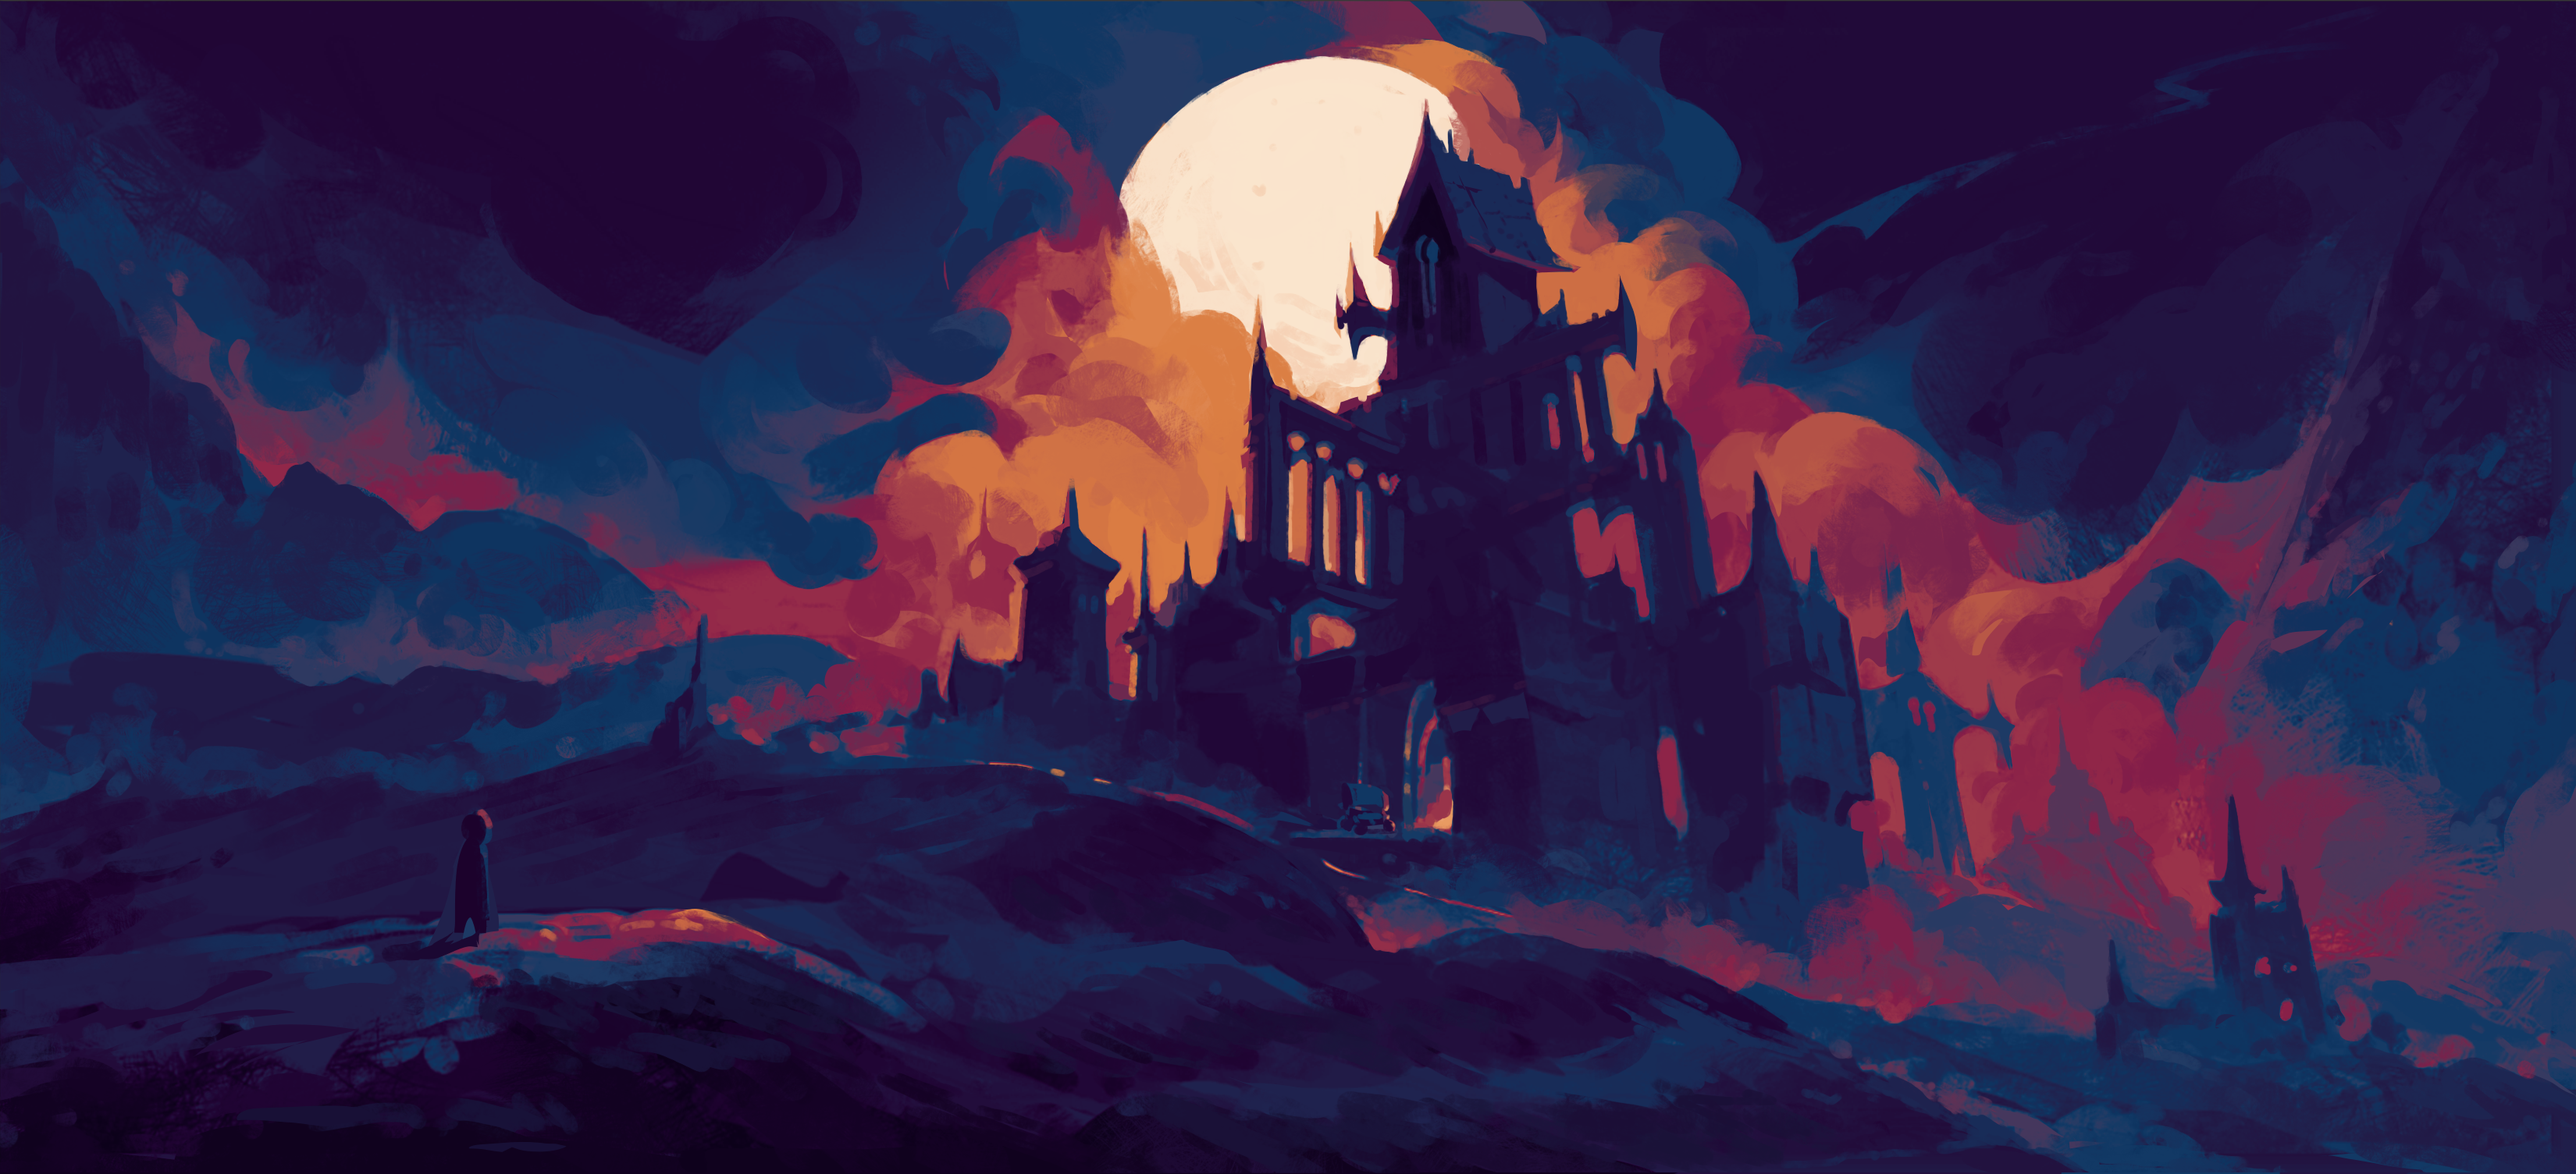
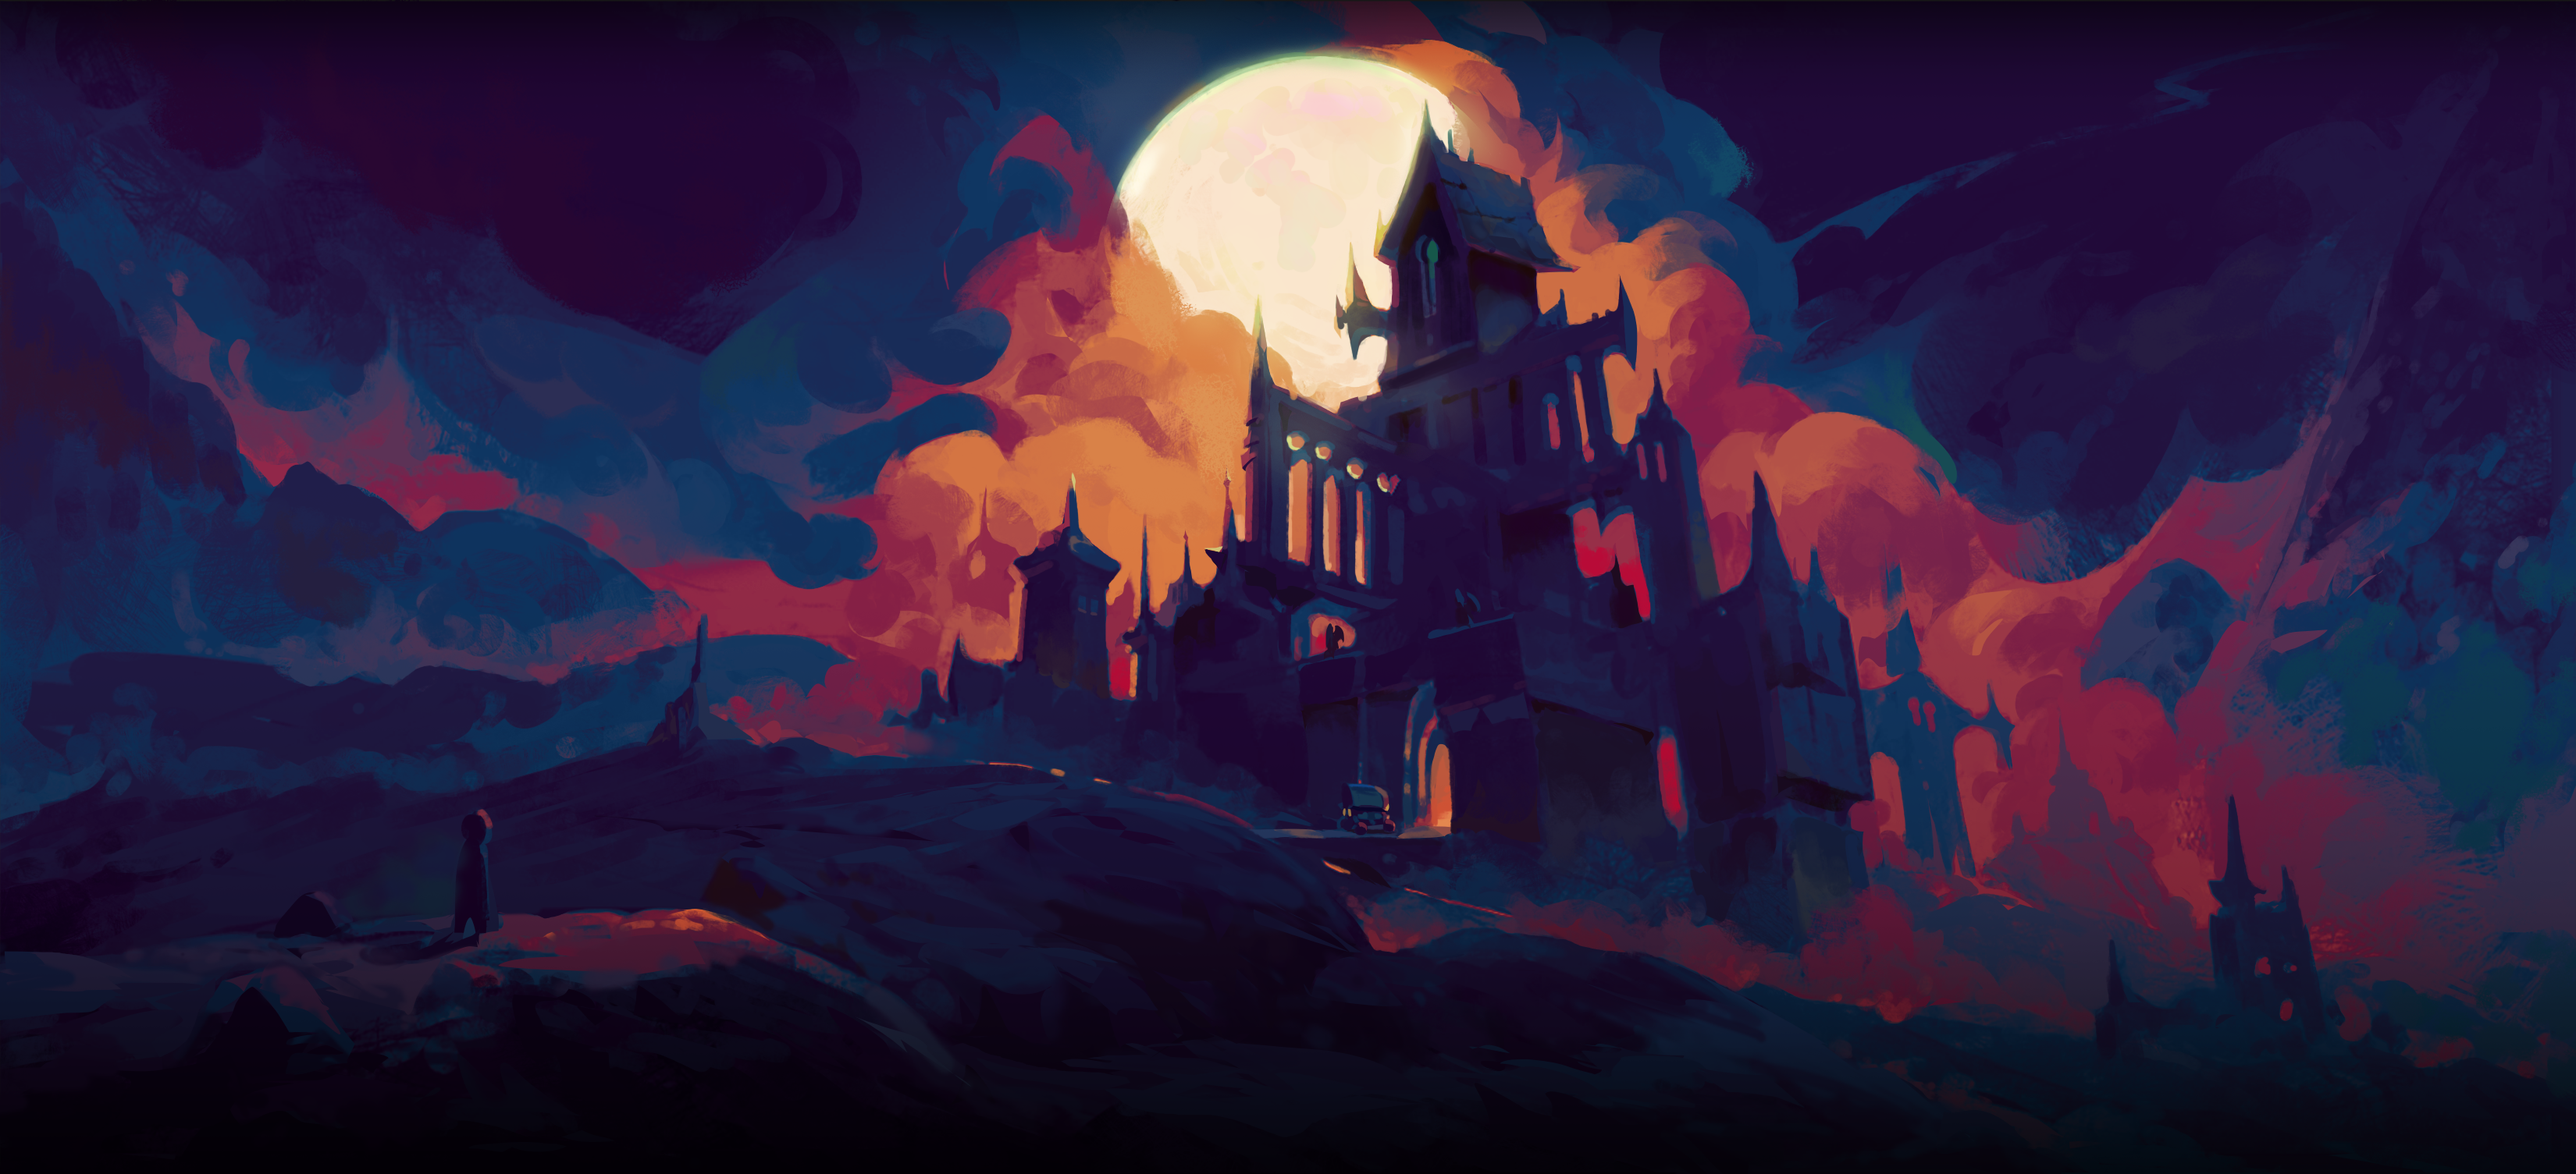
updated look

diff --git a/web/src/pages/Home/components/StudioSection.tsx b/web/src/pages/Home/components/StudioSection.tsx
@@ -1,39 +1,88 @@
 import studio_key_art from "../../../assets/media/studio_key_art.png"
 import TeamData from "../../../constants/TeamData.ts";
+import StudioBackground from "../../../assets/media/img_bg_studio.png"
+import StudioContentBorderLeft from "../../../assets/media/studio_content_left.png"
+import StudioContentBorderRight from "../../../assets/media/studio_content_right.png"
+import {useEffect, useRef, useState} from "react";
+
 export default function StudioSection() {
-    const highlightText  = "text-[#EB4335]";
+    const highlightText  = "text-[#1397a6]";
     const textColor = "";
     const headerColor = "";
     const memberCount = TeamData.map((member)=>member.status === "ACTIVE" && member.member_type !+ "ADVISOR").length;
+
+
+    const [visible, setVisible] = useState(false);
+    const sectionRef = useRef(null);
+
+    useEffect(() => {
+        const observer = new IntersectionObserver(
+            ([entry]) => {
+                setVisible(entry.isIntersecting);
+            },
+            { threshold: 0.1 }
+        );
+
+        if (sectionRef.current) {
+            observer.observe(sectionRef.current);
+        }
+
+        return () => observer.disconnect();
+    }, []);
+
+
+
     return (
-        <section className="mb-10 md:mb-0">
-            <div className="h-200 w-screen flex flex-col items-center mx-auto ">
-                <div className="flex justify-center">
-                <img src={studio_key_art} alt="Sketch of Character Lineup" className="inline-flex justify-center mt-20 items-center h-50"/>
-                {/*<span className="inline-flex justify-center items-center size-50 border border-2 border-line-100 mt-20 text-foreground">*/}
-                {/*    */}
-                {/*</span>*/}
+        <section ref={sectionRef} className={` md:bg-cover transition-opacity duration-500 ${
+            visible ? "opacity-100" : "opacity-0"
+        }`} style={{
+            backgroundImage: `url(${StudioBackground})`
+        }}>
+
+            {/*<div className="absolute inset-0 bg-gradient-to-b from-black via-transparent to-black" />*/}
+            <div className="h-300 w-screen flex flex-col items-center mx-auto ">
+                <div className="flex justify-center mt-50">
+                <img src={studio_key_art} alt="Sketch of Character Lineup" className="inline-flex justify-center mt-20
+                 items-center h-100"/>
+
                 </div>
+                {/*<img src={StudioContentBorder} className="inline-flex justify-center mt-20"/>*/}
+                <div className="flex justify-center ">
+                    {/*Left Border*/}
+                    <img src={StudioContentBorderLeft}
+                        className=" w-30 h-100  mt-10 mr-5 " alt="content border left"
+                    />
 
-                <div className="flex flex-col items-center text-center font-caslon ">
-                    <h3 className={"mt-0 font-bold italic text-3xl text-center " + headerColor}>OUR STUDIO</h3>
-                    <p className={"text-center  max-w-120 mt-1 text-lg " + textColor}>
-                        <span className={highlightText}> In Midnight Games</span> is a gameplay-first independent studio founded by combat designer and high-level
-                        competitive player <span className={highlightText}>Tanner Liou</span>. Our {memberCount}-person team brings experience spanning indie, AAA production,
-                        and large-scale online development, supported by seven attached industry advisors. We build games by
-                        and for people who love competition: approachable, difficult to master, and with the depth necessary
-                        to reward study, execution, and teamwork.
 
-                        <br /><br />
+                    {/*Content*/}
+                    <div className="flex flex-col items-center text-center font-caslon ">
+                        <h3 className={"mt-0 font-bold italic text-3xl text-center " + headerColor}>OUR STUDIO</h3>
+                        <p className={"text-center  max-w-120 mt-1 text-lg " + textColor}>
+                            <span className={highlightText}> In Midnight Games</span> is a gameplay-first independent studio founded by combat designer and high-level
+                            competitive player <span className={highlightText}>Tanner Liou</span>. Our {memberCount}-person team brings experience spanning indie, AAA production,
+                            and large-scale online development, supported by seven attached industry advisors. We build games by
+                            and for people who love competition: approachable, difficult to master, and with the depth necessary
+                            to reward study, execution, and teamwork.
 
-                        We believe numerical balance should support good mechanics, not substitute for them. By intentionally
-                        providing multiple avenues of <span className={highlightText}>skill expression</span>, we aim to create matches where victory is never out of reach.
+                            <br /><br />
 
-                        <br /><br />
+                            We believe numerical balance should support good mechanics, not substitute for them. By intentionally
+                            providing multiple avenues of <span className={highlightText}>skill expression</span>, we aim to create matches where victory is never out of reach.
 
-                        Competition also carries more weight when players care about what they are fighting for.
-                        We build worlds and characters worth protecting, so every test of skill has something human at stake.
-                    </p>
+                            <br /><br />
+
+                            Competition also carries more weight when players care about what they are fighting for.
+                            We build worlds and characters worth protecting, so every test of skill has something human at stake.
+                        </p>
+                    </div>
+                    {/*Right Border*/}
+                    <img src={StudioContentBorderRight}
+                         className=" w-30 h-100  mt-10 ml-5 "
+                         alt="content border right"
+                    />
+
+
+
                 </div>
             </div>
         </section>

diff --git a/web/src/pages/Home/components/TeamSection.tsx b/web/src/pages/Home/components/TeamSection.tsx
@@ -1,18 +1,20 @@
 import ProfileList from "./ProfileList.tsx";
 import useScreenWidth from "../hooks/ScreenWidth.tsx";
+import BackgroundImage from "../../../assets/media/team-section-cloud.png";
 
 export default function TeamSection(){
-    let headerColor:string = "text-[#070B21]";
+    let headerColor:string = "text-white";
     let subHeaderColor:string = "";
     const NameColor:string = "text-[#902923]";
-    const RoleColor:string = "text-[#3C3744]";
+    const RoleColor:string = "text-[#1397a6]";
     const width = useScreenWidth();
     const cols =
         width < 640 ? 1 :
             width < 1024 ? 2 :
                 3;
     return (
-        <section id="team" className="w-screen scroll-mt-16 font-caslon flex flex-col justify-center items-center sm:mt-10 md:mt-5 lg:mt-10">
+        <section id="team" className="w-screen scroll-mt-16 font-caslon flex flex-col justify-center
+        items-center sm:mt-10 md:mt-5 lg:mt-10 bg-cover " style={{backgroundImage: `url(${BackgroundImage})`}}>
             <h3 className={"mt-0 font-bold text-4xl  " + headerColor}>OUR TEAM</h3>
             <p className={"mt-0 italic text-md italic mb-10 " + subHeaderColor}>Take a step into the end</p>
             <ProfileList

diff --git a/web/src/Common/Components/NavBar.tsx b/web/src/Common/Components/NavBar.tsx
@@ -1,12 +1,12 @@
 import { useState } from "react";
-// import Logo from "../../assets/media/img_logo.png";
+import Logo from "../../assets/media/img_logo_white_rounded.png";
 
 export default function Navbar() {
     const [menuOpen, setMenuOpen] = useState(false);
 
     return (
         <header
-            className="sticky top-0 z-50 w-full bg-white bg-navbar border-b border-navbar-line font-caslon"
+            className="sticky top-0 z-50 w-full bg-black text-white bg-navbar border-b border-[#070B21] border-navbar-line font-caslon"
         >
             <nav className="max-w-340 w-full mx-auto px-4">
 
@@ -20,9 +20,9 @@ export default function Navbar() {
                         href="#hero"
                         aria-label="Brand"
                     >
-                        {/*<img src={Logo} alt="Studio Logo" className=" size-10 md:size-50"/>*/}
+                        <img src={Logo} alt="Studio Logo" className=" size-8 mr-3"/>
                         <span className="inline-flex items-center gap-x-2 text-xl font-bold">
-                            In Midnight Games!
+                            In Midnight Games
                         </span>
                     </a>
 

diff --git a/web/src/pages/Home/components/HeroBanner.tsx b/web/src/pages/Home/components/HeroBanner.tsx
@@ -9,11 +9,16 @@ export default function HeroBanner() {
     return (
         <section
             id="hero"
-            className="h-50  xl:h-165 md:h-160 md:bg-cover scroll-mt-16 md:bg-bottom lg:bg-center xl:bg-fixed  flex flex-col items-center justify-center"
-            style={{ backgroundImage: `url(${screenSize > 768? herobanner: herobanner680})` }}
+            className="relative h-50 xl:h-screen  md:h-160 bg-cover scroll-mt-16 md:bg-bottom lg:bg-center xl:bg-fixed"
+            style={{
+                backgroundImage: `url(${screenSize > 768 ? herobanner : herobanner680})`
+            }}
         >
-            {/*<p className="text-6xl text-center font-caslon font-bold text-[#EB4335] ">Studio Logo!</p>*/}
-            <img src={Logo} alt="Studio Logo" className=" size-50 md:size-100"/>
+            <img
+                src={Logo}
+                alt="Studio Logo"
+                className="absolute left-1/2 bottom-0 size-50 md:size-125 -translate-x-1/2 translate-y-1/2 md:translate-y-65 z-10"
+            />
         </section>
     );
 }

diff --git a/web/src/pages/Home/components/ProjectSection.tsx b/web/src/pages/Home/components/ProjectSection.tsx
@@ -1,10 +1,12 @@
 export default function ProjectSection() {
-    const highlightText = "text-[#EB4335]";
+    const highlightText = "text-[#1397a6]";
     const textColor = "";
     const headerColor = "";
 
     return (
-        <section className=" font-caslon mb-20 md:mb-5 lg:mb-0 ">
+        <section className=" font-caslon mb-20 md:mb-5 lg:mb-0  ">
+            {/* Fade overlay */}
+            <div className="absolute inset-0 bg-gradient-to-b from-[#10021e] via-transparent to-black" />
             <div className="h-170 md:h-215 lg:h-120 w-screen flex flex-col  lg:landscape:grid lg:landscape:grid-cols-2  items-center max-w-300 mx-auto px-5">
                 <div className="flex justify-center">
                     <span className="inline-flex justify-center items-center size-50 md:size-80 lg:size-100 border border-line-100 text-foreground">

diff --git a/web/src/pages/Home/index.tsx b/web/src/pages/Home/index.tsx
@@ -2,14 +2,18 @@ import HeroBanner from "./components/HeroBanner.tsx";
 import StudioSection from "./components/StudioSection.tsx";
 import ProjectSection from "./components/ProjectSection.tsx";
 import TeamSection from "./components/TeamSection.tsx";
+import ProjectBorder from "../../assets/media/project-bottom-border.png";
 
 
 export default function Home() {
     return (
-        <main className="scroll-smooth ">
+        <main className="scroll-smooth bg-black text-white ">
             <HeroBanner/>
             <StudioSection/>
             <ProjectSection/>
+            <img src={ProjectBorder}
+                 className=" w-4/5 mx-auto" alt="seperation between Project section and team section"
+            />
             <TeamSection />
         </main>
     );

diff --git a/web/src/Common/Components/Footer.tsx b/web/src/Common/Components/Footer.tsx
@@ -16,7 +16,7 @@ const SocialCard = ()=>{
 export default function Footer() {
 
     return (
-        <footer id="footer" className="footer bg-[#070B21] text-white flex flex-col justify-center  bottom-0 inset-x-0">
+        <footer id="footer" className="footer bg-black text-white flex flex-col justify-center  bottom-0 inset-x-0">
             <h2 className="font-caslon font-bold text-[#EB4335] text-center pt-10 text-2xl">CONTACT US</h2>
             <SocialCard/>
             <p className="font-caslon font-light text-[#FBFFF1] text-center pb-10 text-sm">@2026 by InMidnightGames</p>
